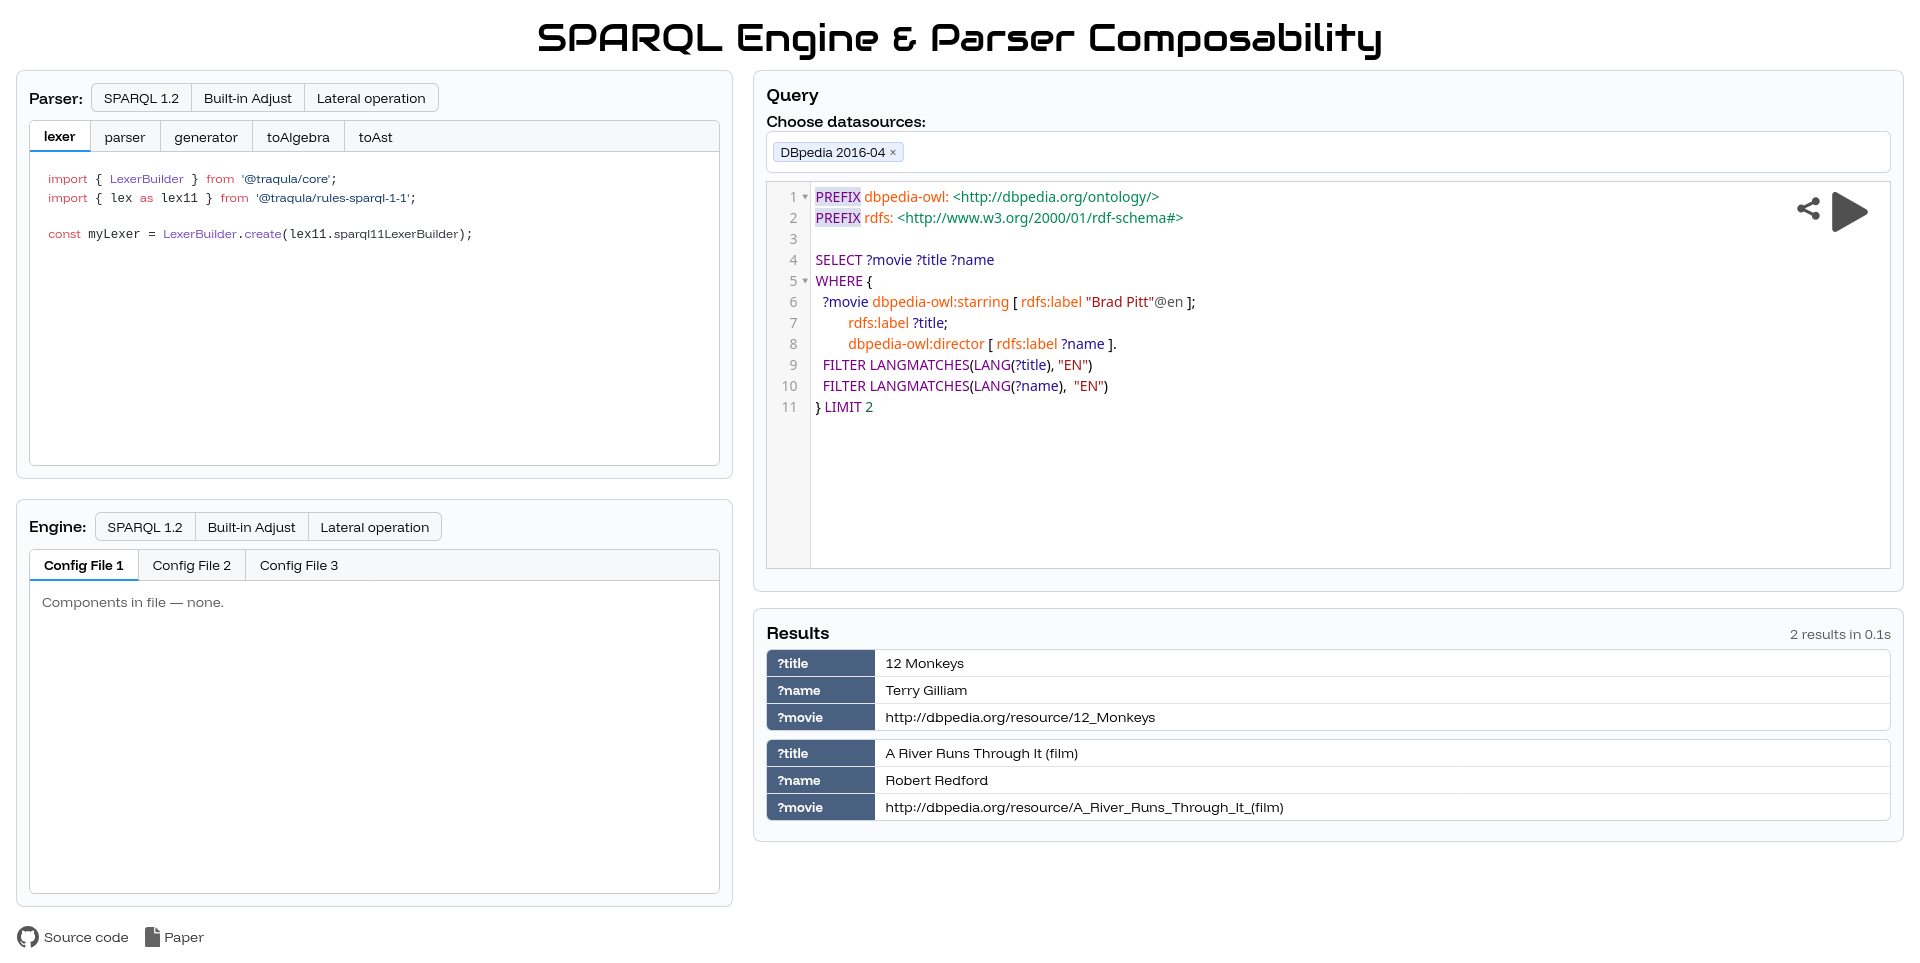
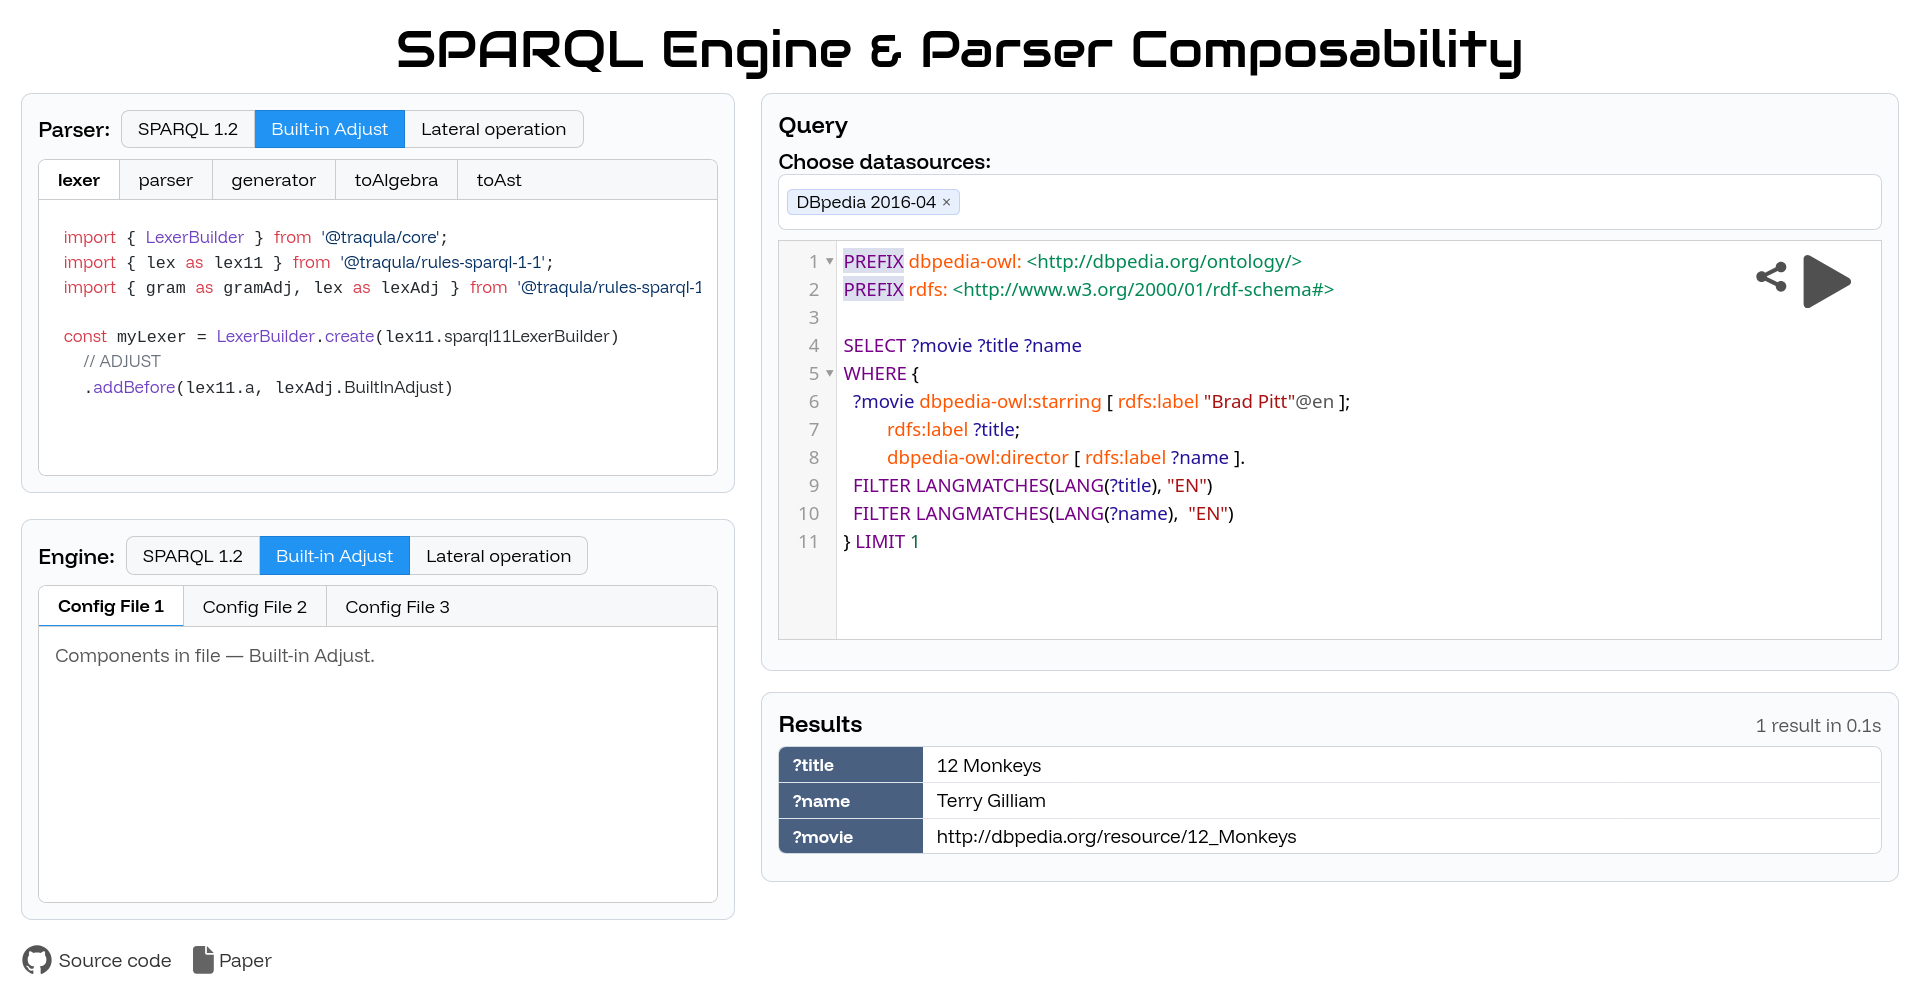
review RT1

diff --git a/content/1.introduction.md b/content/1.introduction.md
@@ -6,16 +6,16 @@ For many years now,
 This diversity allows the
 <!-- [RDF data model](cite:cites spec:rdf) --> RDF data model
 underpinning the Semantic Web to be deployed across a wide range of environments and use cases.
-Besides heterogeneity in data publication, the Linked Data ecosystem also contains many different processors that query data from one or multiple sources.<span class="comment" data-author="RT">Are you referring to federation engines? If so, there aren't that many of them.</span>
+Besides heterogeneity in data publication,
+the Linked Data ecosystem also knows many different algorithms supporting data querying from one or multiple sources.
 
-The modular query engine [Comunica](cite:cites comunica) was introduced to unify querying over these different RDF interfaces while supporting multiple data access and processing techniques .
+The modular query engine [Comunica](cite:cites comunica) was introduced to unify querying over these different RDF interfaces while supporting multiple data access and processing algorithms.
 It's modular architecture has proven effective,
 enabling _sustainable_ maintenance of a [SPARQL 1.1](cite:cites spec:sparqllang) query engine that supports many dataset types and execution strategies.
 However, Comunica has so far been limited to processing basic SPARQL 1.1 queries and –through conversion step– a [subset of GraphQL](cite:cites graphql-ld).
 
 This limitation was not arbitrary, but technical.
-<span class="grammar" data-author="RT">The software used to parse and generate SPARQL queries, responsible for transforming query strings to and from SPARQL algebra,</span>
-was implemented as a large monolithic component.
+The software responsible for parsing and generating SPARQL queries—transforming query strings to and from SPARQL algebra—was implemented as a large monolithic component.
 Extending this component would require either:
 <!-- -->
 1. maintaining a long-term fork
@@ -33,7 +33,7 @@ its planned [maintenance mode](https://github.com/w3c/sparql-dev/issues/32#issue
 
 
 To address these challenges, we developed [Traqula](cite:cites traqula), a toolkit for parsing, generating, and transforming query languages.
-As described in our ESWC 2026 paper<span class="comment" data-author="RT">You can already cite it, with the note "Accepted for publication".</span>, Traqula enables incremental modification of existing SPARQL 1.1 and SPARQL 1.2 parsing setups while remaining generic enough to support future query languages such as [GQL](cite:cites iso-gql), [SHACL compact](cite:cites shacl-compact), or [SHACL rules](cite:cites shacl-rules).
+As described in our [ESWC 2026 paper](cite:cites traqula), Traqula enables incremental modification of existing SPARQL 1.1 and SPARQL 1.2 parsing setups while remaining generic enough to support future query languages such as [GQL](cite:cites iso-gql), [SHACL compact](cite:cites shacl-compact), or [SHACL rules](cite:cites shacl-rules).
 
 In this demo paper, we present an interactive showcase of the Traqula framework and its benefits.
 We developed a web client that dynamically constructs parsers, generators, and transformers using Traqula,
@@ -41,4 +41,4 @@ and dynamically constructs a Comunica query engine also based on the user's choi
 Starting from a SPARQL 1.1 baseline, users can enable or disable language features,
 after which the system adapts both the parsing configuration and query engine accordingly.
 The configured setup can then be used to query remote data sources through an integrated query interface.
-<span class="comment" data-author="RT">Either mention here or later that this demo only is meant to demonstrate the functionalities, but is not meant to be how people actually use Traqula. Instead, refer to the docs.</span>
+While this demonstration highlights a single use case in which Traqula excels, interested readers are encouraged to consult our [Traqula paper](cite:cites traqula) and explore the framework’s documentation: [https://github.com/comunica/traqula#documentation](https://github.com/comunica/traqula#documentation)

diff --git a/content/3.demo.md b/content/3.demo.md
@@ -15,16 +15,16 @@ For the query engine, we expose the relevant configuration files used by Comunic
 
 After configuring both Traqula and Comunica,
 users can execute federated queries through an integrated web interface using the selected setup.
-During query execution, mismatches between enabled parsing features and engine capabilities become visible in practice,<span class="comment" data-author="RT">I would rephrase this slightly, to make it positive instead of negative. Instead of talking about mismatches and failures, I'd mention new functionalities that become possible when doing the right configuration.</span>
-as either the parser or the engine may fail when unsupported features are used.
-This behavior highlights the importance of composability of both engine and parsing software since both parsing software and engine need to be aligned.
+During query execution, new functionalities emerge as users experiment with different parser and engine configurations,
+showcasing capabilities that are enabled when the components are properly aligned.
+This behavior highlights the benefits of composability,
+as both the parsing software and the engine work together seamlessly when their configurations match.
 
 
 <figure id="screenshot" style="display: flex; flex-direction: column">
-<img src="screenshot.png" alt="A screenshot of the demonstration webUI" style="width: 70%; margin: 0 auto;">
+<img src="screenshot.png" alt="A screenshot of the demonstration webUI" style="width: 60%; margin: 0 auto;">
 <figcaption markdown="block">
 Screenshot of the web interface demonstrating Traqula and it's integration in Comunica.
-<span class="comment" data-author="RT">There's a lot of whitespace in the screenshot. It might be possible to zoom in a bit in your browser (ctrl +), and take a screenshot then.</span>
 </figcaption>
 </figure>
 

diff --git a/content/0.abstract.md b/content/0.abstract.md
@@ -16,10 +16,9 @@ With SPARQL 1.2 nearing completion and its planned maintenance mode, this divers
 There is a growing need for language tools that can handle multiple versions and dialects in a unified way.
 In response, we introduced Traqula, a modular framework for parsing, generating, and transforming queries,
 allowing components to be created and adapted incrementally.
-<span class="comment" data-author="RT">I suggest rephrasing the following a little bit to put more emphasis on that participants can play around with different queries using different variants ofg the parser/engine.</span>
-This paper showcases a web client that uses Traqula together with the modular Comunica query engine,
-demonstrating the composability of both, and visualizing their configuration interactively,
-highlighting the benefits of modularity for language tools and query engines alike.
+This paper showcases a web client that brings together Traqula and the modular Comunica query engine,
+enabling users to experiment with queries across multiple parser and engine variants while interactively visualizing their configuration,
+illustrating the power of modularity for both language tools and query engines.
 
 <!--
 <br>
